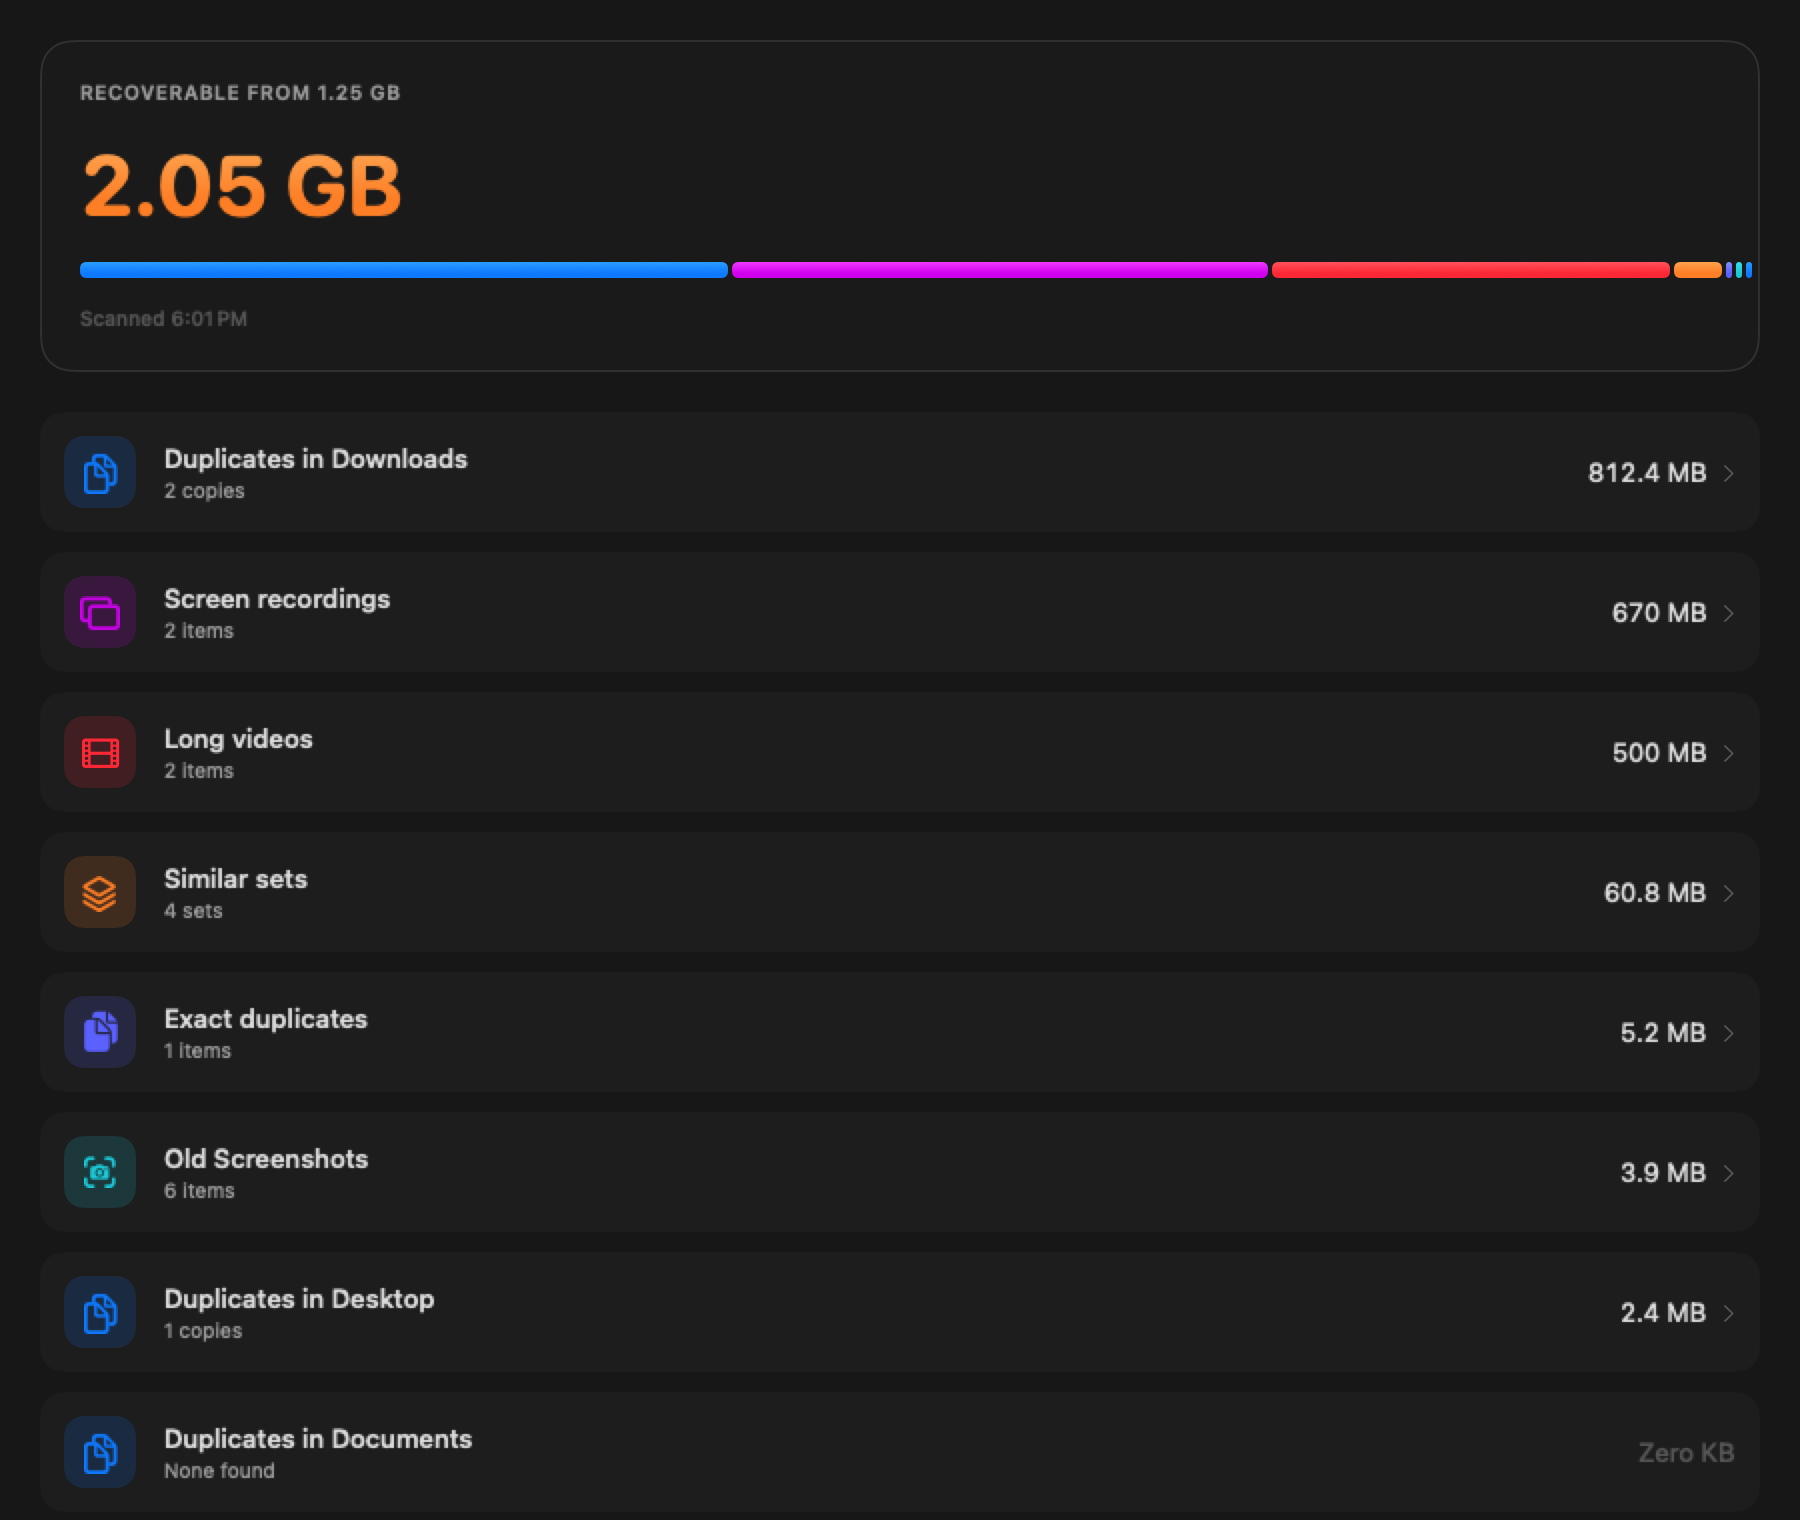
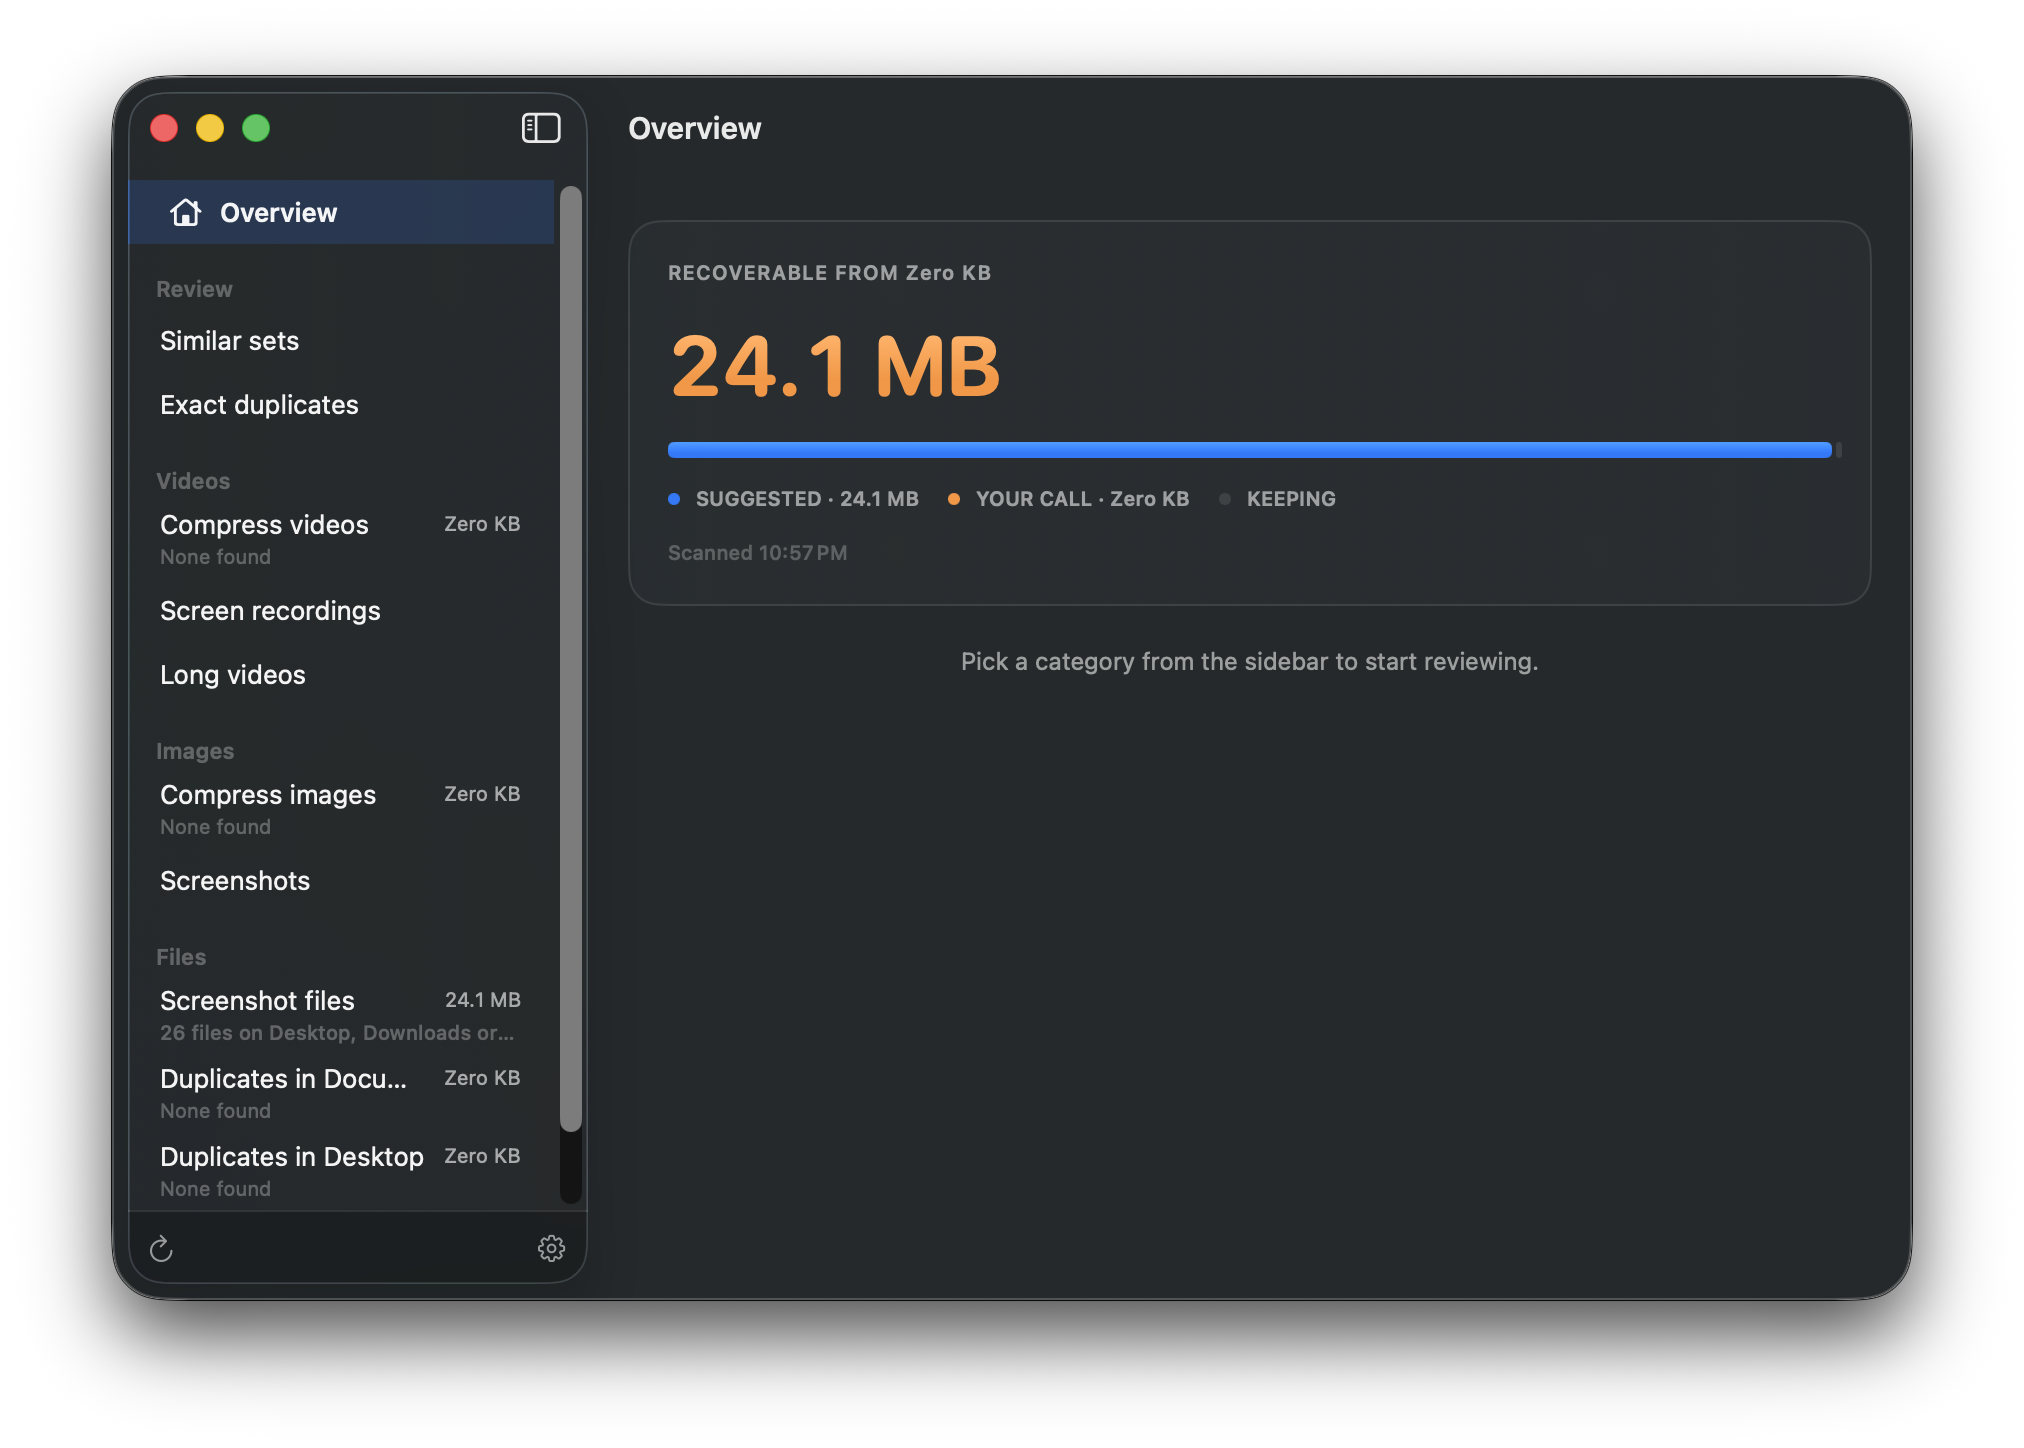
Update Margin product page screenshots and add an iPhone device frame
Real Mac and iPhone screenshots from connected devices replace the
earlier placeholders. The iPhone shot is a native full-height capture
(1206x2622) rather than the old cropped rectangle, so it's rendered
inside a CSS phone frame (bezel, dynamic island, subtle corner radius)
instead of the flat bordered rectangle used for the Mac shot.

diff --git a/docs/margin/index.html b/docs/margin/index.html
@@ -303,8 +303,39 @@
       object-position: top;
     }
 
-    .shot-mac { flex: 1.4; aspect-ratio: 1800 / 1520; align-self: center; }
-    .shot-ios { flex: 0.85; aspect-ratio: 1206 / 1420; align-self: center; }
+    .shot-mac { flex: 1.6; aspect-ratio: 2024 / 1448; align-self: center; }
+
+    .phone-frame {
+      position: relative;
+      flex: 0.62;
+      align-self: center;
+      aspect-ratio: 1206 / 2622;
+      background: #0b0d0c;
+      border-radius: 1rem;
+      padding: 0.35rem;
+      box-shadow: var(--shot-shadow);
+      overflow: hidden;
+    }
+
+    .phone-frame img {
+      display: block;
+      width: 100%;
+      height: 100%;
+      object-fit: cover;
+      border-radius: 0.7rem;
+    }
+
+    .phone-island {
+      position: absolute;
+      top: 0.7rem;
+      left: 50%;
+      transform: translateX(-50%);
+      width: 30%;
+      aspect-ratio: 5.2 / 1;
+      background: #0b0d0c;
+      border-radius: 999px;
+      z-index: 2;
+    }
 
     .shot-caption {
       margin: 0.65rem 0 0;
@@ -595,7 +626,8 @@
           <div class="shot-frame shot-mac">
             <img src="assets/margin-mac-home.png" alt="Margin on Mac: a capacity header reading 2.05 GB recoverable, above a list of categories — duplicates in Downloads, screen recordings, long videos, similar sets, exact duplicates, old screenshots — each with its own reclaimable size." loading="lazy" />
           </div>
-          <div class="shot-frame shot-ios">
+          <div class="phone-frame">
+            <div class="phone-island" aria-hidden="true"></div>
             <img src="assets/margin-ios-home.png" alt="Margin on iPhone: the same home screen, scoped to Similar Photos and Long Videos with their reclaimable sizes." loading="lazy" />
           </div>
         </div>
